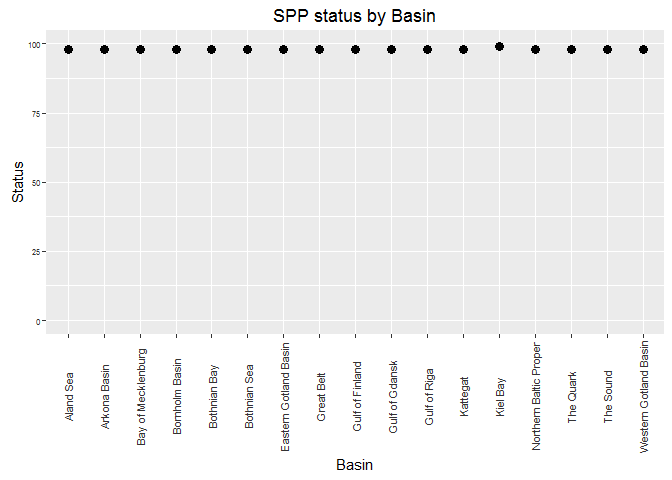
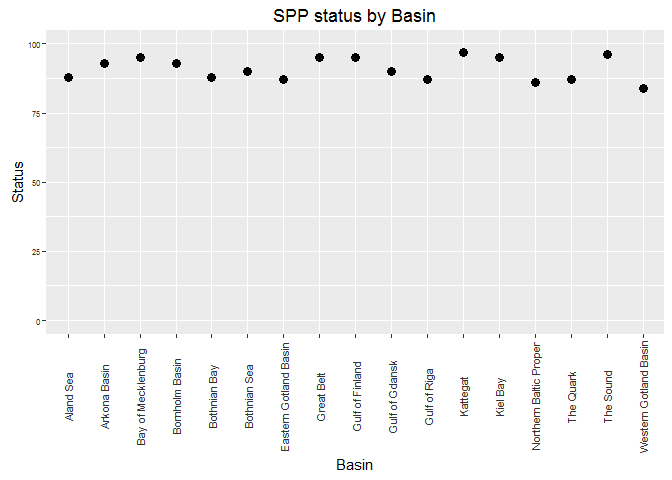
updated spp_prep.rmd. Third status comparision

diff --git a/baltic2015/prep/SPP/spp_prep.md b/baltic2015/prep/SPP/spp_prep.md
@@ -846,7 +846,7 @@ X = ocurrance
 ##gather mammals to long format
 mammals_long = mammals %>%
                gather(location,presence,-latin_name,-common_name)%>%
-               mutate(presence = ifelse(presence == "X", 1, 0))%>% 
+               mutate(presence = ifelse(presence == "x", 1, 0))%>% 
                mutate(taxa_group = "mammals")
 ```
 
@@ -1653,9 +1653,12 @@ ggplot(shared_species_dist_n, aes(x=taxa_group, y=n, fill=helcom_category))+
 Data are on the HOLAS basin scale. Calculate biodiversity status by basin and then apply to BHI regions.
 *Note, this will mean that the data layer sent to layers and what is registered in layers.csv is very different than what is done if use the spatial data layers from HELCOM where status is directly calculated for BHI regions and this is done formally in functions.r*
 
-### 5.7.1 Calulate SPP status using checklist and redlist data
+### 5.7.1 Calulate SPP status using checklist and redlist data with all species weighted equally
 
 **Exclude birds for now**
+Do a single calculation including all species. Will compare this result to doing this calculation first for each taxa group and then taking the geometric mean (See Section 6.7.2)
+
+##### 5.7.1.1 Calculate status
 
 ``` r
 ##sum the threat weights for each basin
@@ -1675,6 +1678,7 @@ dim(sum_wi_basin) #17 2
 ## count the number of species in each BHI region
 sum_spp_basin = shared_species_dist %>%
                 filter(taxa_group != "breeding birds")%>% ## remove birds
+                filter(presence != 0) %>% # select only present taxa
                 select(basin, latin_name)%>%
                 dplyr::count(basin)
 dim(sum_spp_basin) #17 2
@@ -1696,12 +1700,12 @@ head(sum_spp_basin)
     ## 
     ##                basin     n
     ##               (fctr) (int)
-    ## 1          Aland Sea  1486
-    ## 2       Arkona Basin  1620
-    ## 3 Bay of Mecklenburg  1769
-    ## 4     Bornholm Basin  1607
-    ## 5       Bothnian Bay  1417
-    ## 6       Bothnian Sea  1417
+    ## 1          Aland Sea   203
+    ## 2       Arkona Basin   386
+    ## 3 Bay of Mecklenburg   502
+    ## 4     Bornholm Basin   345
+    ## 5       Bothnian Bay   191
+    ## 6       Bothnian Sea   236
 
 ``` r
 spp_status_basin = full_join(sum_wi_basin,sum_spp_basin, by="basin") %>%
@@ -1709,7 +1713,7 @@ spp_status_basin = full_join(sum_wi_basin,sum_spp_basin, by="basin") %>%
                     status = 1 - wi_spp)
 ```
 
-#### 5.7.2 Scale lower end to zero if 75% extinct
+##### 5.7.1.2 Scale lower end to zero if 75% extinct
 
 Currently, species are labled regionally extinct
 
@@ -1717,26 +1721,18 @@ Currently, species are labled regionally extinct
 ## calculate percent extinct in each region
 spp_ex_basin = shared_species_dist %>%
               filter(taxa_group != "breeding birds")%>% 
+              filter(presence != 0) %>% # select only present taxa
               dplyr::rename(weights=helcom_category_numeric)%>%## remove birds
               filter(weights == 1)
 spp_ex_basin
 ```
 
-    ## Source: local data frame [35 x 7]
+    ## Source: local data frame [2 x 7]
     ## 
-    ##    taxa_group           latin_name                common_name
-    ##         (chr)                (chr)                      (chr)
-    ## 1        fish Acipenser oxyrinchus American atlantic sturgeon
-    ## 2        fish Acipenser oxyrinchus American atlantic sturgeon
-    ## 3        fish Acipenser oxyrinchus American atlantic sturgeon
-    ## 4        fish Acipenser oxyrinchus American atlantic sturgeon
-    ## 5        fish Acipenser oxyrinchus American atlantic sturgeon
-    ## 6        fish Acipenser oxyrinchus American atlantic sturgeon
-    ## 7        fish Acipenser oxyrinchus American atlantic sturgeon
-    ## 8        fish Acipenser oxyrinchus American atlantic sturgeon
-    ## 9        fish Acipenser oxyrinchus American atlantic sturgeon
-    ## 10       fish Acipenser oxyrinchus American atlantic sturgeon
-    ## ..        ...                  ...                        ...
+    ##   taxa_group           latin_name                common_name
+    ##        (chr)                (chr)                      (chr)
+    ## 1       fish Acipenser oxyrinchus American atlantic sturgeon
+    ## 2       fish Acipenser oxyrinchus American atlantic sturgeon
     ## Variables not shown: helcom_category (chr), weights (dbl), basin (fctr),
     ##   presence (dbl)
 
@@ -1745,12 +1741,11 @@ spp_ex_basin
 spp_ex_basin %>% select(latin_name,common_name)%>%distinct() ##2 
 ```
 
-    ## Source: local data frame [2 x 2]
+    ## Source: local data frame [1 x 2]
     ## 
     ##             latin_name                common_name
     ##                  (chr)                      (chr)
     ## 1 Acipenser oxyrinchus American atlantic sturgeon
-    ## 2       Dipturus batis                      Skate
 
 ``` r
 ##total extinct per basin
@@ -1763,7 +1758,8 @@ spp_ex_basin_n = spp_ex_basin %>%
 
 ## join to basin status
 spp_status_basin = spp_status_basin %>%
-                   full_join(.,spp_ex_basin_n, by="basin")
+                   full_join(.,spp_ex_basin_n, by="basin") %>%
+                   mutate(n_extinct = ifelse(is.na(n_extinct),0,n_extinct))
 
 ## calculated the % extinct in each basin. if >75% then status score is 0
 spp_status_basin = spp_status_basin %>%
@@ -1771,7 +1767,7 @@ spp_status_basin = spp_status_basin %>%
                          status = ifelse(prop_extinct>=0.75, 0, status))
 ```
 
-#### 5.7.3 Plot status by basin
+##### 5.7.1.3 Plot status by basin
 
 ``` r
 ## Plot status
@@ -1799,6 +1795,172 @@ ggplot(spp_status_basin)+
 ```
 
 ![](spp_prep_files/figure-markdown_github/plot%20basin%20status-2.png)<!-- -->
+
+### 5.7.2 Calulate SPP status using checklist and redlist data by taxa group and geometric mean
+
+**Exclude birds for now**
+Calculation status by taxa group by basin and then taking the geometric mean for each basin.
+
+##### 5.7.2.1 Calculate status by taxa group
+
+``` r
+##sum the threat weights for each basin by taxa group
+sum_wi_basin_taxa_group =shared_species_dist %>%
+              filter(taxa_group != "breeding birds")%>% ## remove birds
+              select(basin,taxa_group,helcom_category_numeric)%>%
+              dplyr::rename(weights=helcom_category_numeric)%>%
+              group_by(basin, taxa_group)%>%
+              summarise(sum_wi =sum(weights))%>%
+              ungroup()
+dim(sum_wi_basin_taxa_group) #68  3
+```
+
+    ## [1] 68  3
+
+``` r
+## count the number of species in each BHI region by taxa group
+sum_spp_basin_taxa_group = shared_species_dist %>%
+                filter(taxa_group != "breeding birds")%>% ## remove birds
+                filter(presence !=0) %>% ## filter out species not present
+                select(basin, taxa_group,latin_name)%>%
+                dplyr::count(basin, taxa_group)
+dim(sum_spp_basin_taxa_group) #68 3
+```
+
+    ## [1] 68  3
+
+``` r
+spp_status_basin_taxa_group = full_join(sum_wi_basin_taxa_group,
+                                        sum_spp_basin_taxa_group, by=c("basin","taxa_group")) %>%
+             mutate(wi_spp_taxa = sum_wi/n,
+                    status_taxa = 1 - wi_spp_taxa)
+```
+
+##### 5.7.2.2 Plot status by taxa group
+
+``` r
+ggplot(spp_status_basin_taxa_group)+
+  geom_point(aes(taxa_group,status_taxa,size=n))+
+  facet_wrap(~basin) +
+  ylim(0,1.5)+
+  theme(axis.text.x = element_text(colour="grey20",size=8,angle=90,hjust=.5,vjust=.5,face="plain"),axis.text.y =  element_text(colour="grey20",size=6))+
+  ggtitle("Taxa group Status by Basin, n= species richness")
+```
+
+![](spp_prep_files/figure-markdown_github/plot%20taxa_group%20Status-1.png)<!-- -->
+
+##### 5.7.2.3 For each taxa group - Scale lower end to zero if 75% extinct
+
+Currently, species are labled regionally extinct
+
+``` r
+## calculate percent extinct in each region
+spp_ex_basin_taxa_group = shared_species_dist %>%
+              filter(taxa_group != "breeding birds")%>% 
+              filter(presence != 0) %>% # select only present taxa
+              dplyr::rename(weights=helcom_category_numeric)%>%## remove birds
+              group_by(taxa_group)%>%
+              filter(weights == 1)%>%
+              ungroup()
+spp_ex_basin_taxa_group
+```
+
+    ## Source: local data frame [2 x 7]
+    ## 
+    ##   taxa_group           latin_name                common_name
+    ##        (chr)                (chr)                      (chr)
+    ## 1       fish Acipenser oxyrinchus American atlantic sturgeon
+    ## 2       fish Acipenser oxyrinchus American atlantic sturgeon
+    ## Variables not shown: helcom_category (chr), weights (dbl), basin (fctr),
+    ##   presence (dbl)
+
+``` r
+## which are RE (regionally extinct)
+spp_ex_basin_taxa_group %>% select(latin_name,common_name)%>%distinct() ##2 
+```
+
+    ## Source: local data frame [1 x 2]
+    ## 
+    ##             latin_name                common_name
+    ##                  (chr)                      (chr)
+    ## 1 Acipenser oxyrinchus American atlantic sturgeon
+
+``` r
+##total extinct per basin
+
+spp_ex_basin_n_taxa_group = spp_ex_basin_taxa_group %>%
+                  select(basin, taxa_group,latin_name)%>%
+                  dplyr::count(basin,taxa_group)%>%
+                  dplyr::rename(n_extinct = n)
+
+
+## join to basin status
+spp_status_basin_taxa_group = spp_status_basin_taxa_group %>%
+                   full_join(.,spp_ex_basin_n_taxa_group, by=c("basin", "taxa_group")) %>%
+                   mutate(n_extinct = ifelse(is.na(n_extinct),0,n_extinct))
+
+## calculated the % extinct in each basin. if >75% then status score is 0
+spp_status_basin_taxa_group  = spp_status_basin_taxa_group  %>%
+                  mutate(prop_extinct = n_extinct / n,
+                         status_taxa = ifelse(prop_extinct>=0.75, 0, status_taxa))
+```
+
+##### 5.7.2.4 Plot again status by taxa group
+
+``` r
+ggplot(spp_status_basin_taxa_group)+
+  geom_point(aes(taxa_group,status_taxa,size=n))+
+  facet_wrap(~basin) +
+  ylim(0,1.5)+
+  theme(axis.text.x = element_text(colour="grey20",size=8,angle=90,hjust=.5,vjust=.5,face="plain"),axis.text.y =  element_text(colour="grey20",size=6))+
+  ggtitle("Taxa group Status by Basin, n= species richness")
+```
+
+![](spp_prep_files/figure-markdown_github/plot%20taxa_group%20Status%20again-1.png)<!-- -->
+
+##### 5.7.2.5 Calculate Geometric Mean for Basin status
+
+``` r
+spp_status_basin_geo = spp_status_basin_taxa_group %>%
+                        select(basin, status_taxa) %>%
+                       group_by(basin)%>%
+                       summarise(status_basin =exp(mean(log(status_taxa))))%>%
+                        ungroup()
+```
+
+##### 5.7.2.4 Plot Geometric Mean for Basin status
+
+``` r
+ggplot(spp_status_basin_geo)+
+  geom_point(aes(basin, status_basin),size=2)+
+  ylim(0,1)+
+  theme(axis.text.x = element_text(colour="grey20",size=8,angle=90,hjust=.5,vjust=.5,face="plain"),axis.text.y =  element_text(colour="grey20",size=6))+
+  ggtitle("SPP Basin status from geometric mean of taxa group status")
+```
+
+![](spp_prep_files/figure-markdown_github/plot%20basin%20Status%20from%20geometric%20mean-1.png)<!-- -->
+
+#### 5.7.3 Compare alternative approaches to Basin level SPP status calculation
+
+``` r
+spp_status_basin = spp_status_basin %>%
+                    select(basin,status)%>%
+                    mutate(status_type = "all species")
+spp_status_basin_geo = spp_status_basin_geo %>%
+                        dplyr::rename(status=status_basin)%>%
+                        mutate(status_type = "taxa group geometric mean")
+
+basin_status_compare = bind_rows(spp_status_basin,spp_status_basin_geo)
+
+
+ggplot(basin_status_compare)+
+  geom_point(aes(basin, status, colour=status_type,shape=status_type),size=2)+
+  ylim(0,1)+
+  theme(axis.text.x = element_text(colour="grey20",size=8,angle=90,hjust=.5,vjust=.5,face="plain"),axis.text.y =  element_text(colour="grey20",size=6))+
+  ggtitle("SPP Basin status method comparision")
+```
+
+![](spp_prep_files/figure-markdown_github/comparsion%20of%20basin%20level%20spp%20status-1.png)<!-- -->
 
 TO DO
 -----
